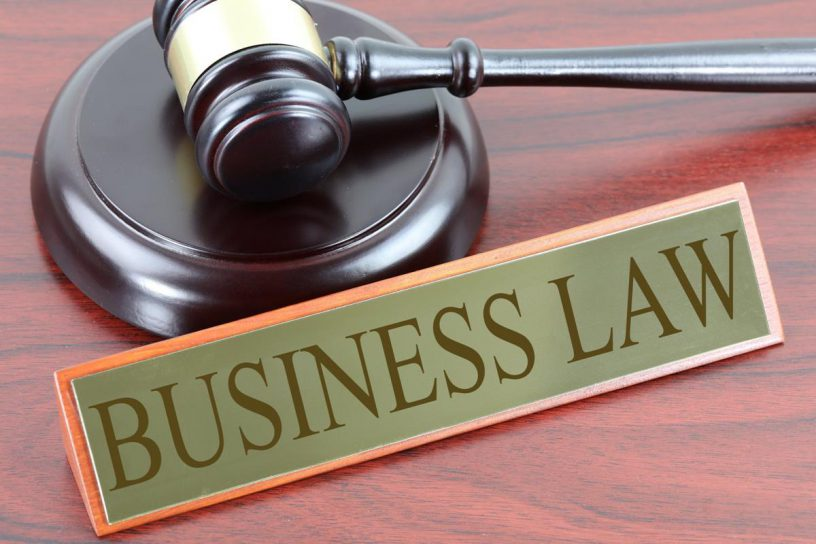
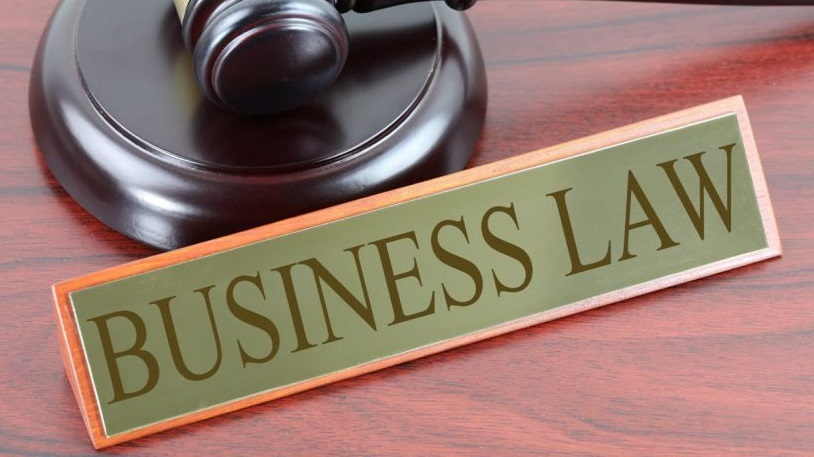
Made differences on Slider

diff --git a/resources/views/home/slider.blade.php b/resources/views/home/slider.blade.php
@@ -1,94 +1,9 @@
 <div class="home-slider owl-carousel">
-    <div class="slider-item" style="background-image:url(assets/img/slider/admi-law.jpg);">
-        <div class="overlay"></div>
-        <div class="container">
-            <div class="row no-gutters slider-text align-items-center justify-content-center">
-                <div class="col-md-12 ftco-animate">
-                    <div class="text w-100 text-center">
-                        <h3 style="font-size: 150px">Administrative Law</h3>
-                    </div>
-                </div>
-            </div>
-        </div>
-    </div>
-
-    <div class="slider-item" style="background-image:url(assets/img/slider/buss-law.jpg);">
-        <div class="overlay"></div>
-        <div class="container">
-            <div class="row no-gutters slider-text align-items-center justify-content-center">
-                <div class="col-md-12 ftco-animate">
-                    <div class="text w-100 text-center">
-                        <h3 style="font-size: 150px">Business Law</h3>
-                    </div>
-                </div>
-            </div>
-        </div>
-    </div>
-
-    <div class="slider-item" style="background-image:url(assets/img/slider/civi-law.png);">
-        <div class="overlay"></div>
-        <div class="container">
-            <div class="row no-gutters slider-text align-items-center justify-content-center">
-                <div class="col-md-12 ftco-animate">
-                    <div class="text w-100 text-center">
-                        <h3 style="font-size: 150px">Civil Law</h3>
-                    </div>
-                </div>
-            </div>
-        </div>
-    </div>
-
-    <div class="slider-item" style="background-image:url(assets/img/slider/comm-law.jpg);">
-        <div class="overlay"></div>
-        <div class="container">
-            <div class="row no-gutters slider-text align-items-center justify-content-center">
-                <div class="col-md-12 ftco-animate">
-                    <div class="text w-100 text-center">
-                        <h3 style="font-size: 150px">Commercial Law</h3>
-                    </div>
-                </div>
-            </div>
-        </div>
-    </div>
-
-    <div class="slider-item" style="background-image:url(assets/img/slider/cons-law.jpg);">
-        <div class="overlay"></div>
-        <div class="container">
-            <div class="row no-gutters slider-text align-items-center justify-content-center">
-                <div class="col-md-12 ftco-animate">
-                    <div class="text w-100 text-center">
-                        <h3 style="font-size: 150px">Constitutional Law</h3>
-                    </div>
-                </div>
-            </div>
-        </div>
-    </div>
-
-    <div class="slider-item" style="background-image:url(assets/img/slider/crim-law.jpg);">
-        <div class="overlay"></div>
-        <div class="container">
-            <div class="row no-gutters slider-text align-items-center justify-content-center">
-                <div class="col-md-12 ftco-animate">
-                    <div class="text w-100 text-center">
-                        <h3 style="font-size: 150px">Criminal Law</h3>
-                    </div>
-                </div>
-            </div>
-        </div>
-    </div>
-
-    <div class="slider-item" style="background-image:url(assets/img/slider/tax-law.jpg);">
-        <div class="overlay"></div>
-        <div class="container">
-            <div class="row no-gutters slider-text align-items-center justify-content-center">
-                <div class="col-md-12 ftco-animate">
-                    <div class="text w-100 text-center">
-                        <h3 style="font-size: 150px">Tax Law</h3>
-                    </div>
-                </div>
-            </div>
-        </div>
-    </div>
+        @foreach($sliderdata as $rs)
+            <a>
+                <img class="slider-item" src="{{Storage::url($rs->image)}}" alt="">
+            </a>
+        @endforeach
 </div>
 
 

diff --git a/resources/views/admin/service/create.blade.php b/resources/views/admin/service/create.blade.php
@@ -1,7 +1,9 @@
 @extends('layouts.adminbase')
 
 @section('title', ' Add Service')
-
+@section('head')
+    <script src="https://cdn.ckeditor.com/ckeditor5/34.0.0/classic/ckeditor.js"></script>
+@endsection
 @section('content')
 <div id="page-wrapper" style="background:#FFFFFF">
     <h1>Add Service</h1>
@@ -56,8 +58,20 @@
                                 </div>
 
                                 <div class="form-group">
-                                    <label>Details</label>
-                                    <input type="text" class="form-control" name="details" placeholder="Details" />
+                                    <label>Detail</label>
+                                    <textarea class="form-control" id="detail" name="detail">
+
+                                    </textarea>
+                                    <script>
+                                        ClassicEditor
+                                            .create( document.querySelector( '#detail' ) )
+                                            .then( editor => {
+                                                console.log( editor );
+                                            } )
+                                            .catch( error => {
+                                                console.error( error );
+                                            } );
+                                    </script>
                                 </div>
 
                                 <div class="form-group">

diff --git a/resources/views/admin/service/edit.blade.php b/resources/views/admin/service/edit.blade.php
@@ -59,8 +59,20 @@
                                 </div>
 
                                 <div class="form-group">
-                                    <label>Details</label>
-                                    <input type="text" class="form-control" name="details" value="{{$data->detail}}"/>
+                                    <label>Detail</label>
+                                    <textarea class="form-control" id="detail" name="detail">
+
+                                    </textarea>
+                                    <script>
+                                        ClassicEditor
+                                            .create( document.querySelector( '#detail' ) )
+                                            .then( editor => {
+                                                console.log( editor );
+                                            } )
+                                            .catch( error => {
+                                                console.error( error );
+                                            } );
+                                    </script>
                                 </div>
 
                                 <div class="form-group">

diff --git a/resources/views/layouts/adminbase.blade.php b/resources/views/layouts/adminbase.blade.php
@@ -11,6 +11,7 @@
         <link href='http://fonts.googleapis.com/css?family=Open+Sans' rel='stylesheet' type='text/css' />
         <script type="module" src="https://unpkg.com/ionicons@5.5.2/dist/ionicons/ionicons.esm.js"></script>
         <script nomodule src="https://unpkg.com/ionicons@5.5.2/dist/ionicons/ionicons.js"></script>
+        <script src="https://cdn.ckeditor.com/ckeditor5/34.0.0/classic/ckeditor.js"></script>
         @yield('head')
     </head>
 

diff --git a/app/Http/Controllers/HomeController.php b/app/Http/Controllers/HomeController.php
@@ -2,13 +2,18 @@
 
 namespace App\Http\Controllers;
 
+use App\Models\Category;
+use App\Models\Service;
 use Illuminate\Http\Request;
 
 class HomeController extends Controller
 {
     //
     public function index(){
-        return view('home.index');
+        $sliderdata=Category::limit(6)->get();
+        return view('home.index',[
+            'sliderdata'=>$sliderdata
+        ]);
     }
 
 }

diff --git a/app/Http/Controllers/AdminPanel/AdminServicesController.php b/app/Http/Controllers/AdminPanel/AdminServicesController.php
@@ -19,7 +19,7 @@ class AdminServicesController extends Controller
             return $title;
         }
         $category = Category::find($category->category_id);
-        $title = $category->title . ' > ' . $title;
+        $title = $category->title;
         return CategoryController::getParentsTree($category, $title);
     }
 

diff --git a/app/Models/Service.php b/app/Models/Service.php
@@ -8,4 +8,8 @@ use Illuminate\Database\Eloquent\Model;
 class Service extends Model
 {
     use HasFactory;
+    #many to one
+    public function category(){
+        return $this->belongsTo(Category::class);
+    }
 }
